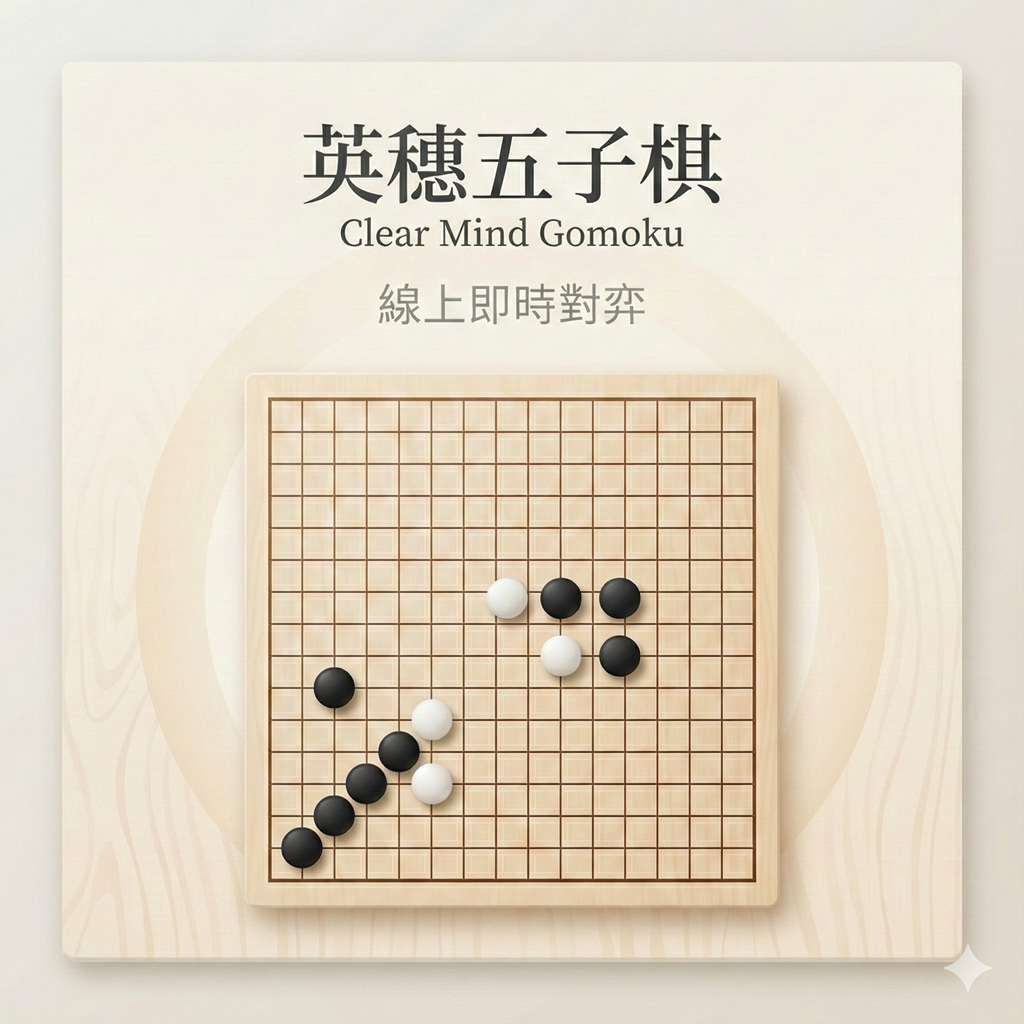
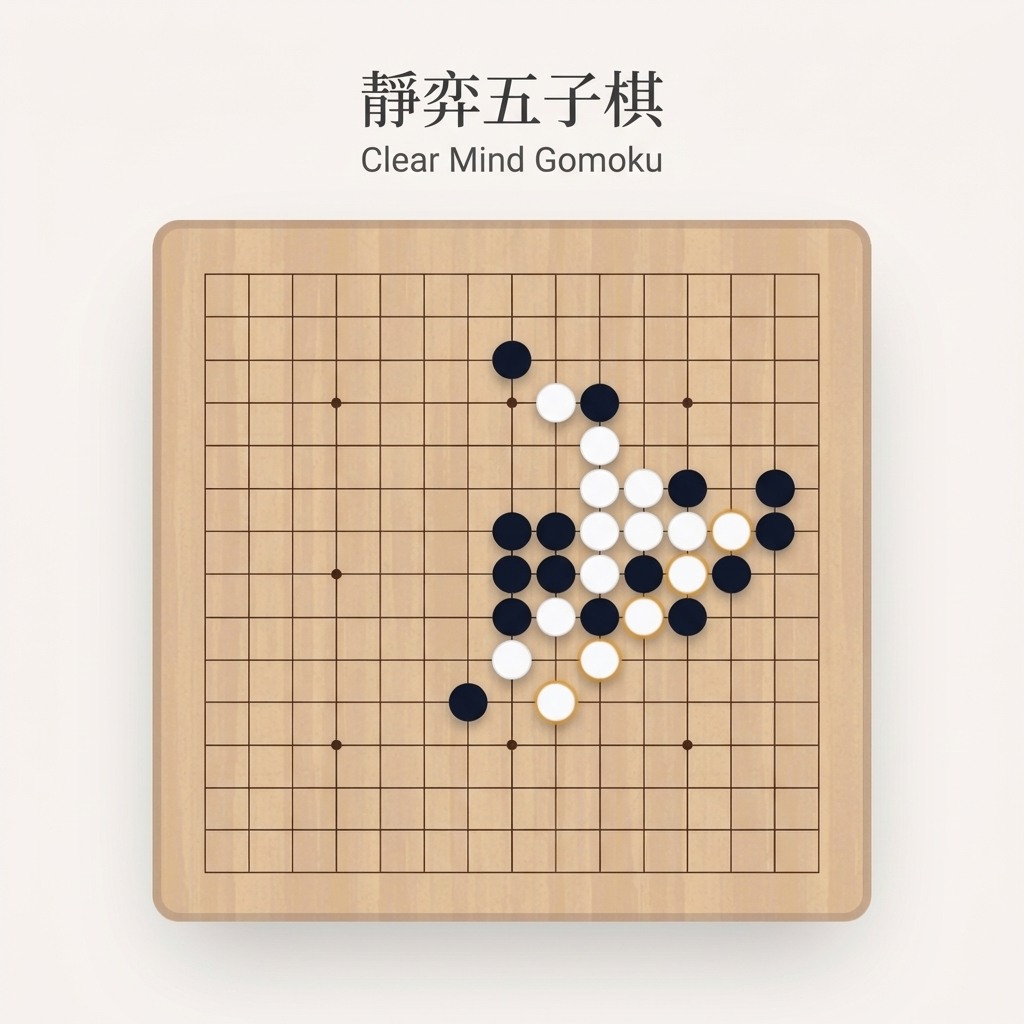
chore(branding): update OG image for 靜弈五子棋

diff --git a/client/index.html b/client/index.html
@@ -4,45 +4,45 @@
 <head>
     <meta charset="UTF-8">
     <meta name="viewport" content="width=device-width, initial-scale=1.0">
-    
+
     <!-- Primary Meta Tags -->
-    <title>Clear Mind Gomoku - 英穗子五子棋</title>
-    <meta name="title" content="Clear Mind Gomoku - 英穗子五子棋">
+    <title>Clear Mind Gomoku - 靜弈五子棋</title>
+    <meta name="title" content="Clear Mind Gomoku - 靜弈五子棋">
     <meta name="description" content="線上即時對弈五子棋，與好友一起享受寧靜的對局體驗。簡潔優雅的介面，流暢的遊戲體驗。">
-    <meta name="keywords" content="五子棋, Gomoku, 線上遊戲, 棋類遊戲, 雙人對弈, 即時對戰, 英穗子, Clear Mind">
+    <meta name="keywords" content="五子棋, Gomoku, 線上遊戲, 棋類遊戲, 雙人對弈, 即時對戰, 靜弈, static chess">
     <meta name="author" content="Clear Mind Gomoku">
-    
+
     <!-- Favicon -->
     <link rel="icon" type="image/png" href="/favicon.png">
     <link rel="apple-touch-icon" href="/favicon.png">
-    
+
     <!-- Open Graph / Facebook -->
     <meta property="og:type" content="website">
     <meta property="og:url" content="https://zen-gomoku-game.vercel.app/">
-    <meta property="og:title" content="英穗子五子棋 - 線上對弈">
+    <meta property="og:title" content="靜弈五子棋 - 線上對弈">
     <meta property="og:description" content="快來跟我下五子棋！點擊連結加入遊戲房間，開始對弈。">
     <meta property="og:image" content="https://zen-gomoku-game.vercel.app/og-image.png">
     <meta property="og:image:width" content="1200">
     <meta property="og:image:height" content="630">
-    <meta property="og:image:alt" content="英穗子五子棋遊戲預覽">
+    <meta property="og:image:alt" content="靜弈五子棋遊戲預覽">
     <meta property="og:locale" content="zh_TW">
     <meta property="og:site_name" content="Clear Mind Gomoku">
-    
+
     <!-- Twitter Card -->
     <meta name="twitter:card" content="summary_large_image">
     <meta name="twitter:url" content="https://zen-gomoku-game.vercel.app/">
-    <meta name="twitter:title" content="英穗子五子棋 - 線上對弈">
+    <meta name="twitter:title" content="靜弈五子棋 - 線上對弈">
     <meta name="twitter:description" content="快來跟我下五子棋！點擊連結加入遊戲房間，開始對弈。">
     <meta name="twitter:image" content="https://zen-gomoku-game.vercel.app/og-image.png">
-    <meta name="twitter:image:alt" content="英穗子五子棋遊戲預覽">
-    
+    <meta name="twitter:image:alt" content="靜弈五子棋遊戲預覽">
+
     <!-- Additional SEO -->
     <meta name="theme-color" content="#f8f5f2">
     <meta name="mobile-web-app-capable" content="yes">
     <meta name="apple-mobile-web-app-capable" content="yes">
     <meta name="apple-mobile-web-app-status-bar-style" content="default">
-    <meta name="apple-mobile-web-app-title" content="英穗子五子棋">
-    
+    <meta name="apple-mobile-web-app-title" content="靜弈五子棋">
+
     <!-- Scripts and Fonts -->
     <script src="https://cdn.tailwindcss.com"></script>
     <script src="https://cdn.socket.io/4.6.1/socket.io.min.js"></script>

diff --git a/client/src/App.tsx b/client/src/App.tsx
@@ -489,7 +489,7 @@ const App: React.FC = () => {
                 <div className="w-4 h-4 border-2 border-white rounded-full"></div>
               </div>
               <div>
-                <h1 className="text-sm sm:text-base font-bold font-serif text-slate-900">英穗子五子棋</h1>
+                <h1 className="text-sm sm:text-base font-bold font-serif text-slate-900">靜弈五子棋</h1>
                 <p className="text-xs text-slate-400">房間 {room.id}</p>
               </div>
             </div>
@@ -533,7 +533,7 @@ const App: React.FC = () => {
       {/* 非遊戲狀態的標題 */}
       {showFatalError && (
         <header className="py-6 text-center animate-in fade-in duration-1000">
-          <h1 className="text-3xl sm:text-4xl font-bold font-serif text-slate-900 tracking-tighter">英穗子五子棋</h1>
+          <h1 className="text-3xl sm:text-4xl font-bold font-serif text-slate-900 tracking-tighter">靜弈五子棋</h1>
           {<p className="text-slate-400 italic text-sm mt-1">
             {isConnected ? '即時對戰中' : (isReconnecting ? '網路恢復中...' : 'Client-Server 連線版本')}
           </p>}

diff --git a/client/src/components/Lobby.tsx b/client/src/components/Lobby.tsx
@@ -18,7 +18,7 @@ const Lobby: React.FC<LobbyProps> = ({ onCreate, settings, onSettingsChange }) =
         <div className="w-16 h-16 bg-slate-900 rounded-full mx-auto flex items-center justify-center shadow-lg">
           <div className="w-8 h-8 border-4 border-white rounded-full"></div>
         </div>
-        <h2 className="text-2xl sm:text-3xl font-serif font-bold mt-4 text-slate-900">英穗子五子棋</h2>
+        <h2 className="text-2xl sm:text-3xl font-serif font-bold mt-4 text-slate-900">靜弈五子棋</h2>
         <p className="text-slate-500 px-4">建立遊戲房間，選擇您的棋子顏色，並邀請好友進行對弈。</p>
       </div>
 

diff --git a/client/src/components/GameInfo.tsx b/client/src/components/GameInfo.tsx
@@ -24,7 +24,7 @@ const GameInfo: React.FC<GameInfoProps> = ({ room, localPlayer, onReset, onGoHom
     try {
       // 只傳 URL，讓社交平台自動抓取 Open Graph 標籤
       await navigator.share({
-        title: '英穗子五子棋',
+        title: '靜弈五子棋',
         text: '快來跟我下五子棋！',
         url: shareLink
       });

diff --git a/README.md b/README.md
@@ -1,10 +1,10 @@
 <div align="center">
-<img alt="英穗子五子棋主畫面截圖" src="/assets/screenshot.png" />
+<img alt="靜弈五子棋主畫面截圖" src="/assets/screenshot.png" />
 </div>
 
-# 英穗子五子棋 (Clear Mind Gomoku)
+# 靜弈五子棋 (Clear Mind Gomoku)
 
-一款基於 **React + Socket.IO** 開發的跨裝置線上對戰五子棋，採用 **Client-Server 架構**，提供流暢且具有英穗子的寧靜對弈體驗。
+一款基於 **React + Socket.IO** 開發的跨裝置線上對戰五子棋，採用 **Client-Server 架構**，提供流暢且具有靜弈的寧靜對弈體驗。
 
 **Demo 👉** https://zen-gomoku-game.vercel.app
 
